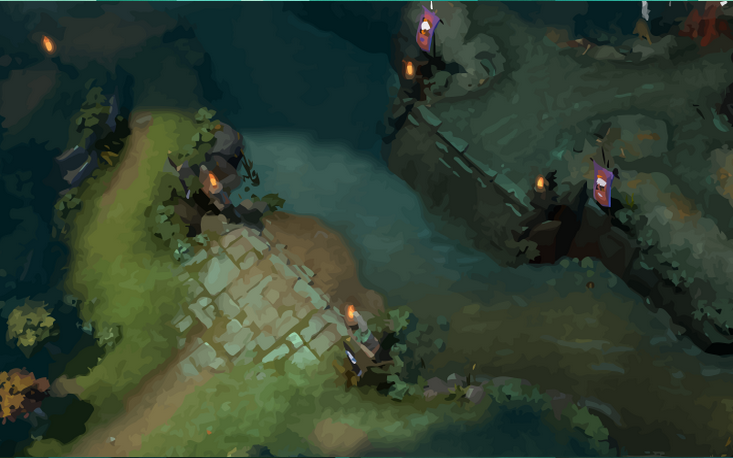
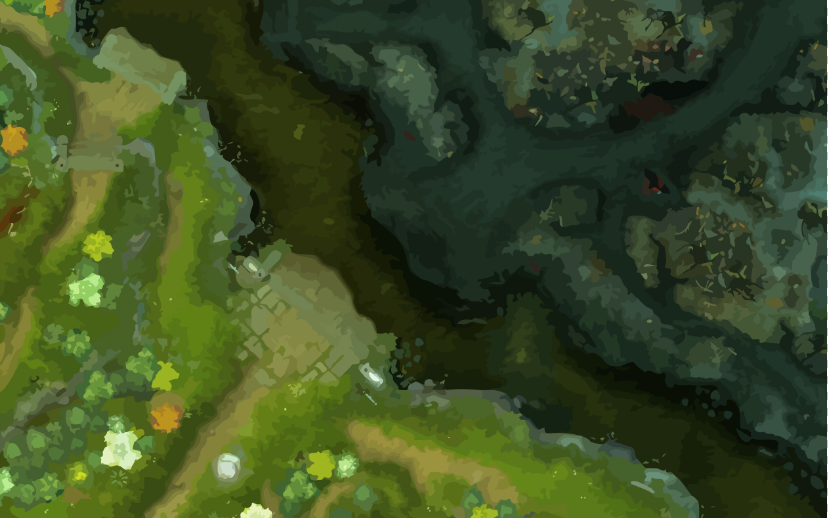
0.053
it's 3d ... without glasses

diff --git a/game/map.js b/game/map.js
@@ -1,13 +1,13 @@
 //        0     1       2       3         4          5           6          7           8
 // range:            Melee /  Short  / Ranged  /   Long  
 // speed:    Slow / Normal /  Fast                                          ▒          ▒▒▒
-//                                                   ▒          ▒▒▒       ▒▒▒▒▒       ▒▒▒▒▒
-//                              ▒        ▒▒▒       ▒▒░▒▒       ▒▒▒▒▒     ▒▒▒▒▒▒▒     ▒▒▒▒▒▒▒
-//              ▒     ▒▒▒      ▒░▒      ▒░░░▒      ▒░░░▒      ▒▒▒▒▒▒▒    ▒▒▒▒▒▒▒    ▒▒▒▒▒▒▒▒▒
-//        ▓    ▒▓▒    ▒▓▒     ▒░▓░▒     ▒░▓░▒     ▒░░▓░░▒     ▒▒▒▓▒▒▒   ▒▒▒▒▓▒▒▒▒   ▒▒▒▒▓▒▒▒▒
-//              ▒     ▒▒▒      ▒░▒      ▒░░░▒      ▒░░░▒      ▒▒▒▒▒▒▒    ▒▒▒▒▒▒▒    ▒▒▒▒▒▒▒▒▒
-//                              ▒        ▒▒▒       ▒▒░▒▒       ▒▒▒▒▒     ▒▒▒▒▒▒▒     ▒▒▒▒▒▒▒
-//                                                   ▒          ▒▒▒       ▒▒▒▒▒       ▒▒▒▒▒
+//                                                   ▒          ▒▒▒       ▒▒░▒▒       ▒░░░▒
+//                              ▒        ▒▒▒       ▒▒░▒▒       ▒░░░▒     ▒░░░░░▒     ▒░░░░░▒
+//              ▒     ▒▒▒      ▒░▒      ▒░░░▒      ▒░░░▒      ▒░░░░░▒    ▒░░░░░▒    ▒░░░░░░░▒
+//        ▓    ▒▓▒    ▒▓▒     ▒░▓░▒     ▒░▓░▒     ▒░░▓░░▒     ▒░░▓░░▒   ▒░░░▓░░░▒   ▒░░░▓░░░▒
+//              ▒     ▒▒▒      ▒░▒      ▒░░░▒      ▒░░░▒      ▒░░░░░▒    ▒░░░░░▒    ▒░░░░░░░▒
+//                              ▒        ▒▒▒       ▒▒░▒▒       ▒░░░▒     ▒░░░░░▒     ▒░░░░░▒
+//                                                   ▒          ▒▒▒       ▒▒░▒▒       ▒░░░▒
 //                                                                          ▒          ▒▒▒
 
 var Map = {
@@ -167,7 +167,6 @@ var Map = {
       }
     }
   },     
-  
 
   inRange: function(spot, r, cb){
     Map.atRange(spot, 0, cb);
@@ -289,7 +288,8 @@ var Map = {
   unhighlight: function(){
     $('.map .card').off('contextmenu.attack contextmenu.cast contextmenu.activate mouseenter mouseleave').removeClass('attacktarget casttarget targetspot');
     $('.map td').off('contextmenu.movearea contextmenu.castarea mouseenter mouseleave').removeClass('movearea targetarea stroke playerattack enemyattack skillcast skillarea top bottom left right');    
-  },
+  }
+  
 };
 
 //jquery multi class detection

diff --git a/game/deck.js b/game/deck.js
@@ -1,4 +1,4 @@
-//Damage = lvl15 damage * 0.05
+//Damage = lvl15 damage * 0.1
 //HP = lvl15 hp * 0.05
 //Regen = Card HP * 0.03
 //Mana = lvl15 mana * 0.005
@@ -144,7 +144,8 @@ var Card = function(data){
   $('<div>').appendTo(portrait).addClass('overlay');
   
   if(data.attribute) $('<h1>').appendTo(fieldset).text(data.attribute);  
-  else $('<h1>').appendTo(fieldset).text(game.heroes[data.hero].name);  
+  else if(game.heroes[data.hero]) $('<h1>').appendTo(fieldset).text(game.heroes[data.hero].name);  
+  else $('<h1>').appendTo(fieldset).text(data.hero); 
   
   var current = $('<div>').addClass('current').appendTo(fieldset);
   var desc = $('<div>').addClass('desc').appendTo(fieldset);
@@ -519,7 +520,7 @@ $.fn.strokeAttack = Card.strokeAttack;
 
 Card.highlightAttack = function(){    
   var card = this;
-  if(card.hasAllClasses('player heroes') && !card.hasClasses('enemy done dead stunned frozen')){        
+  if(card.hasClass('player') && card.hasClasses('units heroes') && !card.hasClasses('enemy done dead stunned frozen')){        
     var spot = Map.getPosition(card), range = Map.getRange(card.data('range')); 
     Map.inRange(spot, range, function(neighbor){
       var card = $('.card', neighbor);        
@@ -552,9 +553,9 @@ Card.damage = function(damage, target, type){
   else damage = Math.round(damage);
   var source = this;
   if(!type) type = 'Physical';
-  var resistance = target.data('resistance');
+  var resistance = 1 - (target.data('resistance') / 100);
   if(type == 'Magical' && resistance) damage = Math.round(damage * resistance);
-  var armor = target.data('armor');
+  var armor = 1 - (target.data('armor') / 100);
   if(type == 'Physical' && armor) damage = Math.round(damage * armor);
   if(typeof target == 'string') target = $('#'+target+' .card');
   var hp = target.data('currenthp') - damage;

diff --git a/styles/game.css b/styles/game.css
@@ -557,7 +557,7 @@ label input {
   width: 23px;
   height: 19px;  
   padding: 0;
-  padding-top: 2px;
+  padding-top: 4px;
 }
 .card .current .hp span {
   background: #ceeb71;
@@ -873,6 +873,7 @@ label input {
 }
 .card .buffs .buff .img ,
 .card .buffs .buff .overlay {
+  border-radius: 50%;
   box-shadow: 0 0 10px rgba(0,0,0,0.5) inset;
   width: 36px; height: 36px;
 }
@@ -957,6 +958,20 @@ label input {
 .camera {
   position: absolute;
   top: 35px; left: 5px;    
+  width: 733px; height: 456px;
+  background: #666;
+  perspective: 1000px;
+  overflow: hidden;
+}
+
+.camera:after {
+  content: "";
+  display: block;
+  position: absolute;
+  top: 0; left: 0;  
+  width: 733px; height: 456px;
+  box-shadow: inset 0 0 20px 5px black;
+  pointer-events: none;
 }
 
 .map {
@@ -965,21 +980,26 @@ label input {
   border-spacing: 1px;
   z-index: 1;
   background-size: 100%;
+  background-position: 50%;
   background-image: url("../img/bkg/map_vectorized.png");
-  box-shadow: inset 0 0 8px 6px black;
+  transform: scale(1.2) translate(-4%, -21%) rotateX(45deg);
+  transform-style: preserve-3d;
+  padding: 200px;
+  width: 1133px; height: 856px;
 }
 
 .map .card {
+  position: absolute;
   z-index: 3;
   top: 50%; left: 50%;
-  transform: translate(-50%, -50%) scale(0.29);  
-  position: absolute;
+  transform: translate3d(-50%, -50%, 0) scale3d(0.29, 0.29, 0.29) rotateX(0deg);
 }
 .map .card:hover {
-  transform: translate(-50%, -50%) scale(0.3); 
+  transform: translate3d(-50%, -50%, 25px) scale3d(0.29, 0.29, 0.29) rotateX(-45deg);
 }
-.map .card.channeling {
-  transform: translate(-50%, -50%) scale(0.29) rotate(5deg); 
+
+.map .card.selected {
+  transform: translate3d(-50%, -50%, 25px) scale3d(0.29, 0.29, 0.29) rotateX(-45deg);
 }
 
 .map td {

diff --git a/game/states.js b/game/states.js
@@ -598,12 +598,33 @@ var states = {
     },
 
     buildMap: function(){
-      this.camera = $('<div>').appendTo(this.el).addClass('camera');
+      game.scroll = 4;
+      this.camera = $('<div>').appendTo(this.el).addClass('camera')
+      .mousemove(function(event){  
+        if(event.clientX < 210) game.scrolling = -1;
+        else if(event.clientX > 840) game.scrolling = 1;
+        else game.scrolling = 0;
+        console.log('move',event.clientX, game.scroll, game.scrolling);
+      }).hover(function(){
+        game.scrolling = 0;
+        console.log('hover',game.scroll, game.scrolling);
+      });      
       this.map = Map.build({
         'width': game.width,
         'height': game.height,
         'class': 'map'
       }).appendTo(this.camera).click(Card.unselect);
+      setInterval(states.table.scroll, 20);
+    },
+    
+    scroll: function(){ 
+      if(game.scrolling){
+        game.scroll += (game.scrollspeed * game.scrolling);
+        if(game.scroll < 4) game.scroll = 4;
+        if(game.scroll > 26) game.scroll = 26;
+        states.table.map.css({transform: 'scale(1.2) translate(-'+game.scroll+'%, -21%) rotateX(45deg)'});
+      }
+      //console.log('scroll',game.scroll, game.scrolling);                
     },
 
     createTower: function(side, spot){
@@ -613,7 +634,7 @@ var states = {
         name: 'Tower',        
         attribute: 'Building',
         range: 'Ranged',
-        damage: 7,
+        damage: 15,
         hp: 80
       });        
       tower.on('click.select', Card.select).place(spot);

diff --git a/client.js b/client.js
@@ -29,6 +29,7 @@ var game = {
   map: null, width: 12,  height: 5, //slots  
   nomenu: function(){return false;},
   audioctx: new AudioContext(), sounds: {}, audio: audio,
+  scrollspeed: 0.4,
   seed: 0, random: function(){  
     if(game.debug) return 0;
     return parseFloat('0.'+Math.sin(++game.seed).toString().substr(6));

diff --git a/game/skills.js b/game/skills.js
@@ -81,7 +81,7 @@ var skills = {
         var side = source.data('side');
         var bear = $('.'+side+'.card.ld.bear');
         bear.data('currenthp', bear.data('hp'));
-        bear.place(target);
+        bear.place(target).select();
       }
     },
     rabid: {
